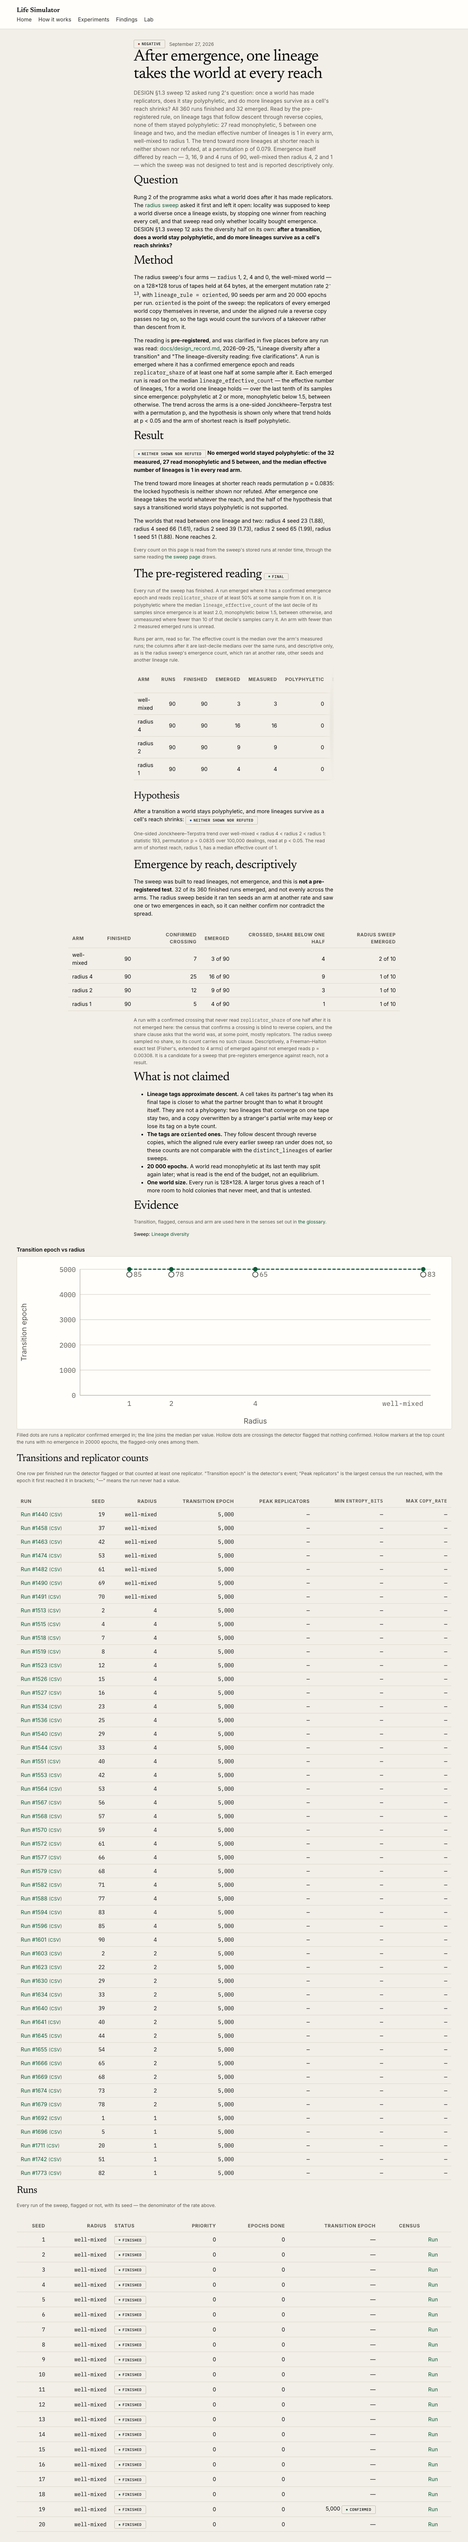
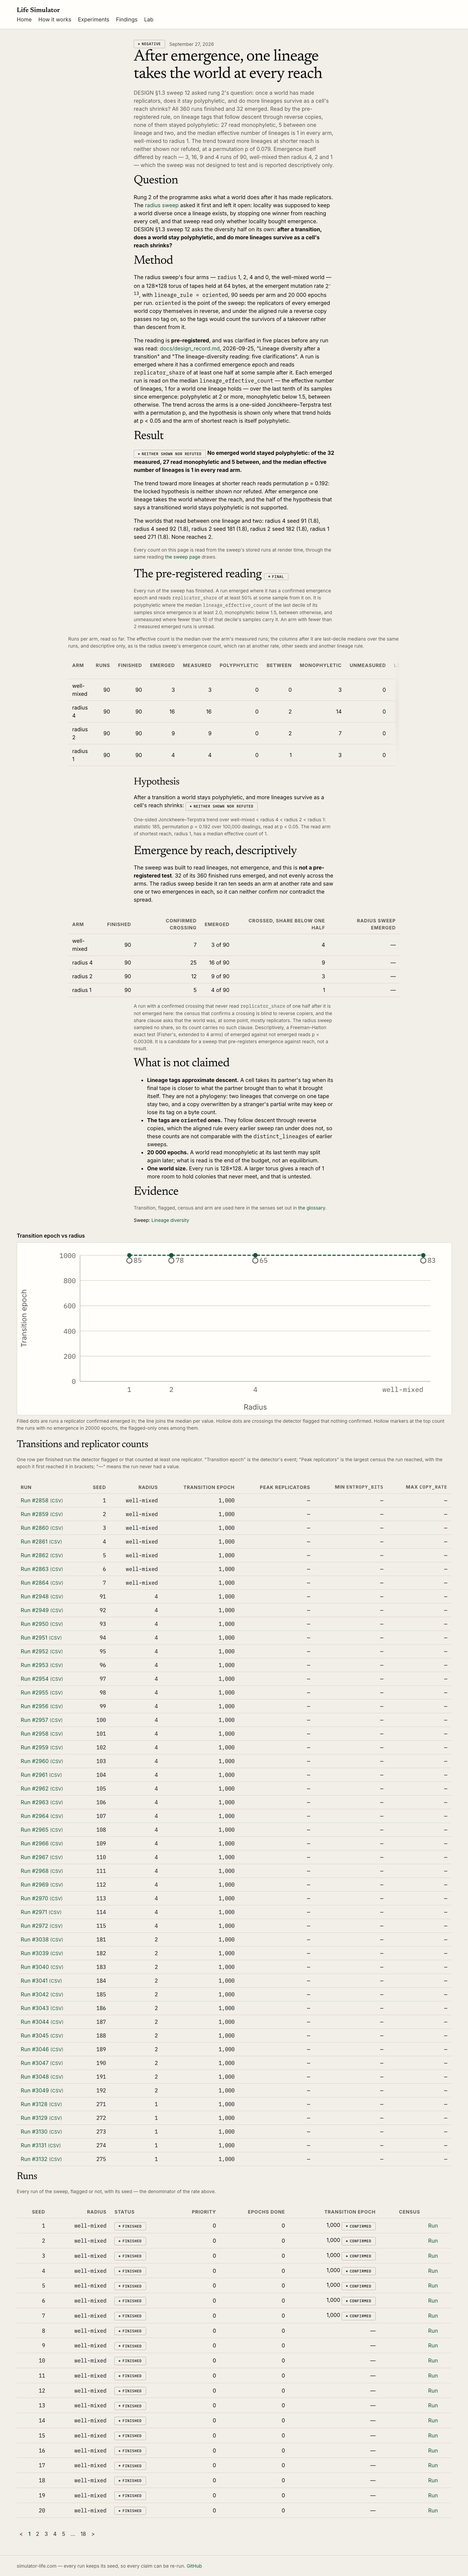
Let the finding's reading table break out of the measure, and tabulate Freeman-Halton's binomials once
The shared lineage-diversity reading partial wraps its table figure in a section, so on
desktop the claim's columns (between, monophyletic, the effective count) sat behind a
sideways scroll in the 600 px measure. The breakout rule now reaches a figure one section
deep. Stats::FreemanHalton precomputes each row's binomial coefficients: the sweep's 4x2
table reads in 5 ms instead of 156 ms, and a 4x2 table of 360 with 135 events in about
0.5 s instead of 32 s, at the same p. Screenshots refreshed at 1400 and 390 px.

diff --git a/app/assets/stylesheets/site.css b/app/assets/stylesheets/site.css
@@ -152,10 +152,12 @@
 /* A finding's prose is set to a measure, but a table inside it is evidence, not prose, and
    its columns cannot be read through a 600 px window. Once the page is wide enough to hold
    62rem plus its own gutter, a table breaks out of the measure, centred on it. The 37.5rem
-   is .container-narrow's max-width in 03-layout.css. */
+   is .container-narrow's max-width in 03-layout.css. A reading partial shared with a sweep
+   page wraps its table in a section, which spans the measure too. */
 @media (min-width: 64rem) {
   .container-narrow > .table-scroll,
-  .container-narrow > .table-figure {
+  .container-narrow > .table-figure,
+  .container-narrow > section > .table-figure {
     margin-inline: calc((37.5rem - 62rem) / 2);
   }
 }

diff --git a/app/models/stats/freeman_halton.rb b/app/models/stats/freeman_halton.rb
@@ -7,7 +7,8 @@ module Stats
   # observed one. Each table's weight is the product of its rows' binomial coefficients, an
   # integer, so the comparison is an exact equality and the division happens once. It
   # enumerates every table the margins allow, which is a few thousand for four arms of
-  # ninety sharing a few dozen events, and grows fast past that.
+  # ninety sharing a few dozen events, and grows as the events to the power of one fewer
+  # than the arms past that.
   class FreemanHalton
     def self.p_value(rows) = new(rows).p_value
 
@@ -21,11 +22,10 @@ module Stats
     def p_value
       return nil if sizes.size < 2 || !sizes.all?(&:positive?)
 
-      threshold = weight(observed)
+      threshold = observed.each_with_index.reduce(1) { |product, (count, row)| product * coefficients[row][count] }
       extreme = 0
       total = 0
-      each_table(0, observed.sum, []) do |table|
-        chance = weight(table)
+      each_weight(0, observed.sum, 1) do |chance|
         total += chance
         extreme += chance if chance <= threshold
       end
@@ -36,17 +36,22 @@ module Stats
 
     attr_reader :sizes, :observed
 
-    def each_table(row, remaining, prefix, &)
+    # C(size, 0..size) for each row, so a table's weight is one lookup per row.
+    def coefficients
+      @coefficients ||= sizes.map do |size|
+        (1..size).each_with_object([1]) { |step, row| row << (row.last * (size - step + 1) / step) }
+      end
+    end
+
+    def each_weight(row, remaining, product, &)
       if row == sizes.size - 1
-        yield [*prefix, remaining] if remaining <= sizes[row]
+        yield product * coefficients[row][remaining] if remaining <= sizes[row]
         return
       end
 
-      (0..[remaining, sizes[row]].min).each { |count| each_table(row + 1, remaining - count, [*prefix, count], &) }
+      (0..[remaining, sizes[row]].min).each do |count|
+        each_weight(row + 1, remaining - count, product * coefficients[row][count], &)
+      end
     end
-
-    def weight(table) = table.zip(sizes).reduce(1) { |product, (count, size)| product * choose(size, count) }
-
-    def choose(outer, inner) = (0...inner).reduce(1) { |product, step| product * (outer - step) / (step + 1) }
   end
 end
